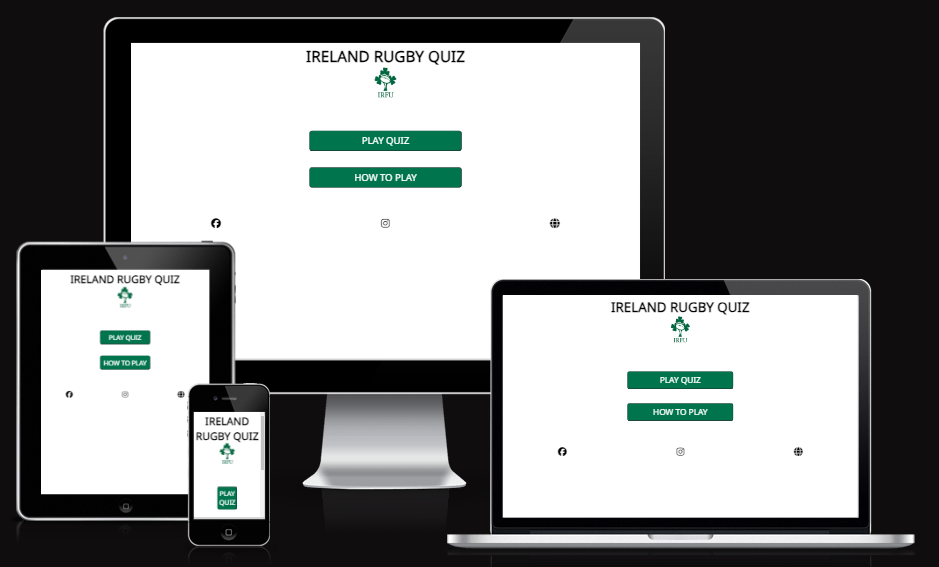
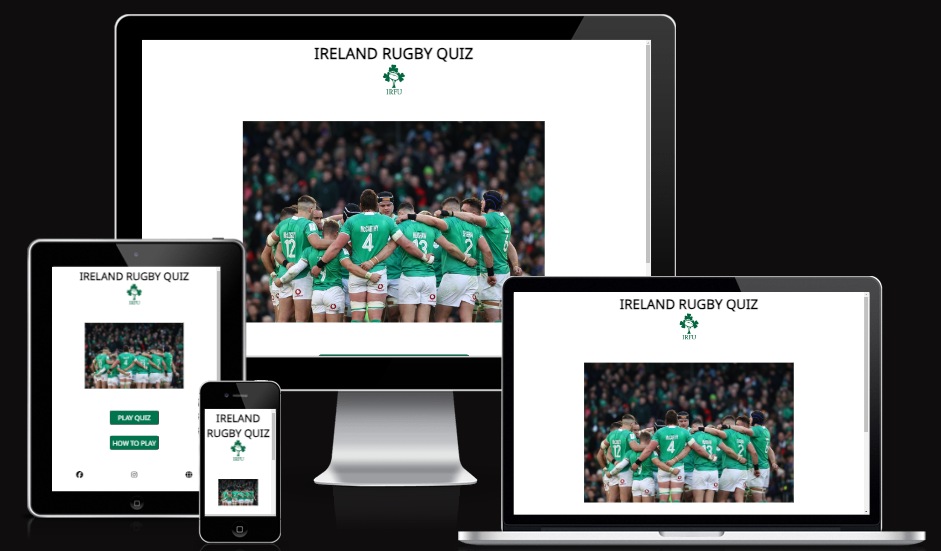
Bug to be add in readme and responsive

diff --git a/README.md b/README.md
@@ -105,6 +105,10 @@ The End page is a result of the total score of the current game.
 
 <h1>Bugs</h1>
 
+I have fixed bug in issues GitHub. 
+![alt text](<readme folder/bug/bug.jpg>)
+
+
 
 <h1>Credits</h1>
 
